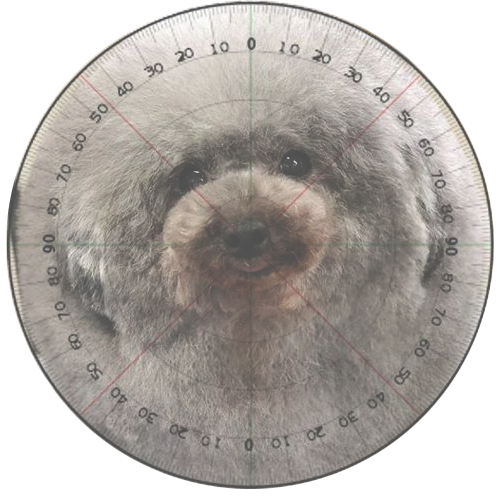
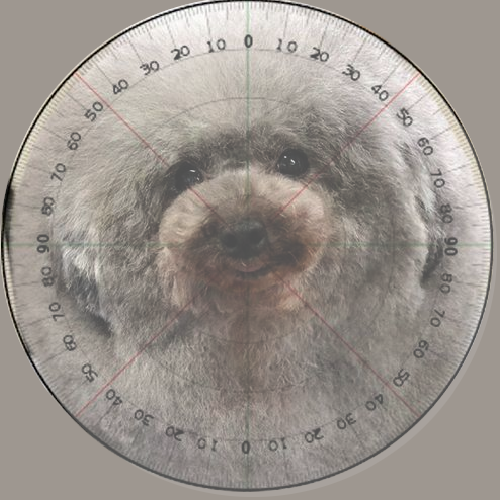
epickie bajziwoj

diff --git a/css/bye.css b/css/bye.css
@@ -6,28 +6,42 @@ h1{
     margin-bottom: 10px !important;
 }
 .imaże{
-    width: 50%;
+    width: 400px;
     border-radius: 20px;
-    border: 10px solid #112d4c;
-    margin: 0 auto;
+    border: 3px solid #e5ba8d1b;
+    /* margin: 0 auto; */
+    transition: 0.2s;
+}
+.imaże:hover{
+    transform: scale(1.05);
+    transition: 0.2s;
+}
+#quote:hover{
+    transform: scale(1.05);
+    transition: 0.2s;
 }
 #wrapper{
     margin:0 auto ;
-    justify-content:space-between;
+    justify-content:space-around;
     align-items: center;
-    margin-top: 70px;
+    margin-top: 45px;
     margin-bottom: 100px;
+    gap: 100px;
+    width: 80%;
 }
 #quote{
-    padding: 80px;
-    font-size: 2em;
+    padding: 50px;
+    font-size: 1.2em;
+    width: 400px;
     text-align: center;
-    background-color: #112d4c;
+    background-color: rgb(0, 9, 20, 0.7);
     border-radius: 20px;
-    border: 10px solid #000f20;
+    border: 3px solid #e5ba8d1b;
+    transition: 0.2s;
 }
 #text-wrapper{
-    margin-bottom: 50px;
+    margin-bottom: -50px;
+
 }
 
 
@@ -43,19 +57,29 @@ h1{
     width: 500px;
     border-radius: 50%;
     box-shadow: 5px 5px 50px rgba(0, 0, 0, 0.8);
+    transition: 1s;
+}
+.clock:hover{
     
+    transform: rotateY(360deg);
+    transition: 2s;
+}
+.clock:hover .face{
+    background-image: url(../img/piesek2.png);
+    transition: 2s;
 }
 
 .face {
     width: 100%;
     height: 100%;
+    transition: 1s;
     border-radius: 50%;
     border: 5px solid #000000;
     display: flex;
     justify-content: center;
     align-items: center;
     background-color: #000f20;
-    background-image: url(../img/piesek.png);
+    background: url(../img/piesek.png);
     box-shadow: inset -5px -5px 50px rgba(0, 0, 0, 0.8);
     position: relative;
 }
@@ -87,20 +111,20 @@ h1{
 .screw-dot {
     position: absolute;
     background-color: #694b39;
-    width: 6px;
-    height: 6px;
+    width: 15px;
+    height: 15px;
     border-radius: 50%;
     z-index: 9;
 }
 
 .hrs-hand {
     height: 110px;
-    width: 10px;
+    width: 15px;
     background-color: #694b39;
-    border-top-left-radius: 50%;
-    border-top-right-radius: 50%;
+    /* border-top-left-radius: 30%; */
+    /* border-top-right-radius: 30%; */
     border: 3px solid #412c16;
-    border-bottom: 30px solid #3b2916;
+    /* border-bottom: 30px solid #3b2916; */
     position: absolute;
     top: 135px;
     transform-origin: bottom center;
@@ -111,12 +135,12 @@ h1{
 
 .mins-hand {
     height: 180px;
-    width: 8px;
+    width: 10px;
     background-color: #694b39;
-    border-top-left-radius: 50%;
-    border-top-right-radius: 50%;
+    /* border-top-left-radius: 30%; */
+    /* border-top-right-radius: 30%; */
     border: 2px solid #412c16;
-    border-bottom: 30px solid #3b2916;
+    /* border-bottom: 30px solid #3b2916; */
     position: absolute;
     top: 65px;
     transform-origin: bottom center;
@@ -127,10 +151,10 @@ h1{
 
 .secs-hand {
     height: 240px;
-    width: 4px;
+    width: 7px;
     background-color: #412c16;
-    border-top-left-radius: 50%;
-    border-top-right-radius: 50%;
+    /* border-top-left-radius: 50%; */
+    /* border-top-right-radius: 50%; */
     position: absolute;
     top: 45px;
     transform-origin: center 200px;
@@ -138,10 +162,9 @@ h1{
     display: flex;
     justify-content: center;
     box-shadow: 2px 2px 5px rgba(0, 0, 0, 0.8);
-    /* transform: rotate(30deg); */
 }
 
-.secs-hand::before{
+/* .secs-hand::before{
     content: "";
     display: block;
     height: 22px;
@@ -150,9 +173,9 @@ h1{
     top: 30px;
     clip-path: polygon(50% 0%, 100% 80%, 50% 100%, 0 80%);
     background-color: #412c16;
-}
+} */
 
-.secs-hand::after{
+/* .secs-hand::after{
     content: "";
     display: block;
     height: 13px;
@@ -161,7 +184,7 @@ h1{
     top: 36px;
     clip-path: polygon(50% 0%, 100% 80%, 50% 100%, 0 80%);
     background-color: #694b39;
-}
+} */
 
 .lines {
     /* background-color: blueviolet; */
@@ -174,17 +197,17 @@ h1{
 }
 
 .line {
-    background-color: #000000;
+    background-color: #412c16;
     height: 10px;
     width: 2px;
     position: absolute;
 }
 
 .big-line {
-    background-color: rgb(0, 0, 0);
+    background-color: #412c16;
     width: 8px;
     height: 18px;
-    border: 2px solid #000000;
+    border: 2px solid #412c16;
 }
 
 .numbers {

diff --git a/bye.html b/bye.html
@@ -6,8 +6,7 @@
         <meta name="viewport" content="width=device-width, initial-scale=1.0">
         <meta name="author" content="Szymon Urbaniak">
         <script src="js/script.js" defer></script>
-        <script src="js/preview-script-0.js" defer></script>
-        <script src="js/preview-script-2.js" defer></script>
+        <script src="js/bye-script.js" defer></script>
         <title>Gudbaż | Zegar analogowy</title>
         <link rel="stylesheet" href="css/style.css">
         <link rel="stylesheet" href="css/bye.css">
@@ -28,30 +27,27 @@
             <p>Dziękujemy za wysłuchanie naszej prezentacji o zegarach. Mamy nadzieję, że z waszą nowo zdobytą wiedzą będziecie w stanie stworzyć działający zegar analogowy i zmodyfikować jego wygląd do waszych potrzeb.</p>
            
         </div>
-        <div id="clock-wrapper">
-            <div class="clock" style="cursor: pointer;">
-                <div class="face">
-                    
-                    <div class="hrs-hand" id="hrs-hand"></div>
-                    <div class="mins-hand" id="mins-hand"></div>
-                    <div class="secs-hand" id="secs-hand"></div>
-            
-                    <div class="dot">
-                        <div class="secs-dot"></div>
+        <div id="wrapper">
+            <p id="quote">Czas to pieniądz a pieniądze nie śpią<br>~ ktoś mądry</p>
+            <div id="clock-wrapper">
+                <div class="clock" style="cursor: pointer;">
+                    <div class="face">
+                        
+                        <div class="hrs-hand" id="hrs-hand"></div>
+                        <div class="mins-hand" id="mins-hand"></div>
+                        <div class="secs-hand" id="secs-hand"></div>
+                
+                        <div class="dot">
+                            <div class="secs-dot"></div>
+                        </div>
+                        <div class="screw-dot"></div>
+                
+                        <div class="lines" id="lines"></div>
                     </div>
-                    <div class="screw-dot"></div>
-            
-                    <div class="lines" id="lines"></div>
-                    <div class="numbers" id="numbers"></div>
                 </div>
             </div>
-        </div>
-        <div class="text-wrapper quote">
-            
-        </div>
-        <div id="wrapper">
-            <p id="quote">Czas to pieniądz a pieniądze nie śpią<br>- ktoś mądry</p>
             <img src="img/uwu_zegar.PNG" alt="uwu zegar" class="imaże">
+            
         </div>
         <div class="background-wrapper">
             

diff --git a/js/bye-script.js b/js/bye-script.js
@@ -1,0 +1,44 @@
+lines = document.getElementById("lines");
+hrsHand = document.getElementById("hrs-hand");
+minsHand = document.getElementById("mins-hand");
+secsHand = document.getElementById("secs-hand");
+lines.innerHTML = "";
+try {
+    clearInterval(timeCheck);
+}
+catch (err) {}
+hrsHand.style.transform = `rotate(0deg)`;
+minsHand.style.transform = `rotate(0deg)`;
+secsHand.style.transform = `rotate(0deg)`;
+
+lines.innerHTML = "";
+try {
+    clearInterval(timeCheck);
+}
+catch (err) {}
+
+for (let i = 0; i < 60; i++) {
+    if (i % 5 == 0) lines.innerHTML += `<div class="line big-line" style="transform: rotate(${6*i}deg) translateY(228px);"></div>`;
+    else lines.innerHTML += `<div class="line" style="transform: rotate(${6*i}deg) translateY(230px);"></div>`;
+}
+
+// for (let i = 1; i < 13; i++) {
+//     numbers.innerHTML += `<div class="number" style="transform: rotate(${30*i}deg) translateY(-180px);"><div style="transform: rotate(-${30*i}deg);">${i}</div></div>`;
+// }
+
+function setDate(){
+    const now = new Date();
+    const hrs = now.getHours();
+    const mins = now.getMinutes();
+    const secs = now.getSeconds();
+    
+    const hrsDeg = hrs * 30 + mins * 0.5;
+    const minsDeg = mins * 6 + secs * 0.1;
+    const secsDeg = secs * 6;
+
+    hrsHand.style.transform = `rotate(${hrsDeg}deg)`;
+    minsHand.style.transform = `rotate(${minsDeg}deg)`;
+    secsHand.style.transform = `rotate(${secsDeg}deg)`;
+}
+
+var timeCheck = setInterval(setDate, 100);
